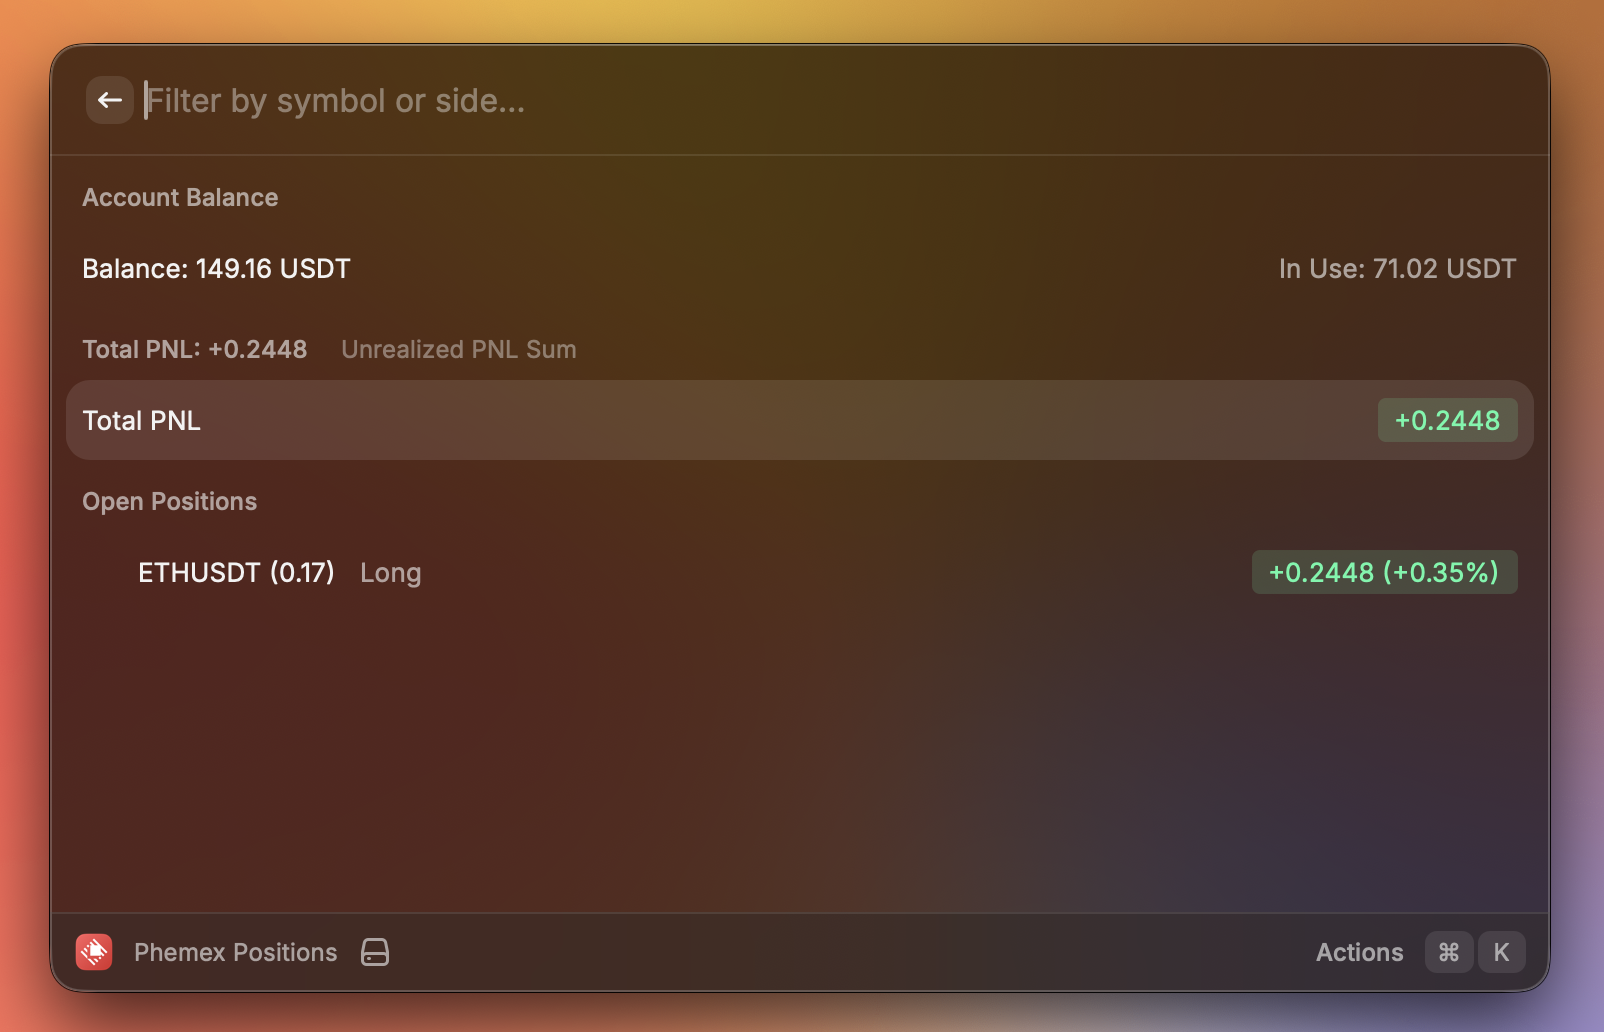
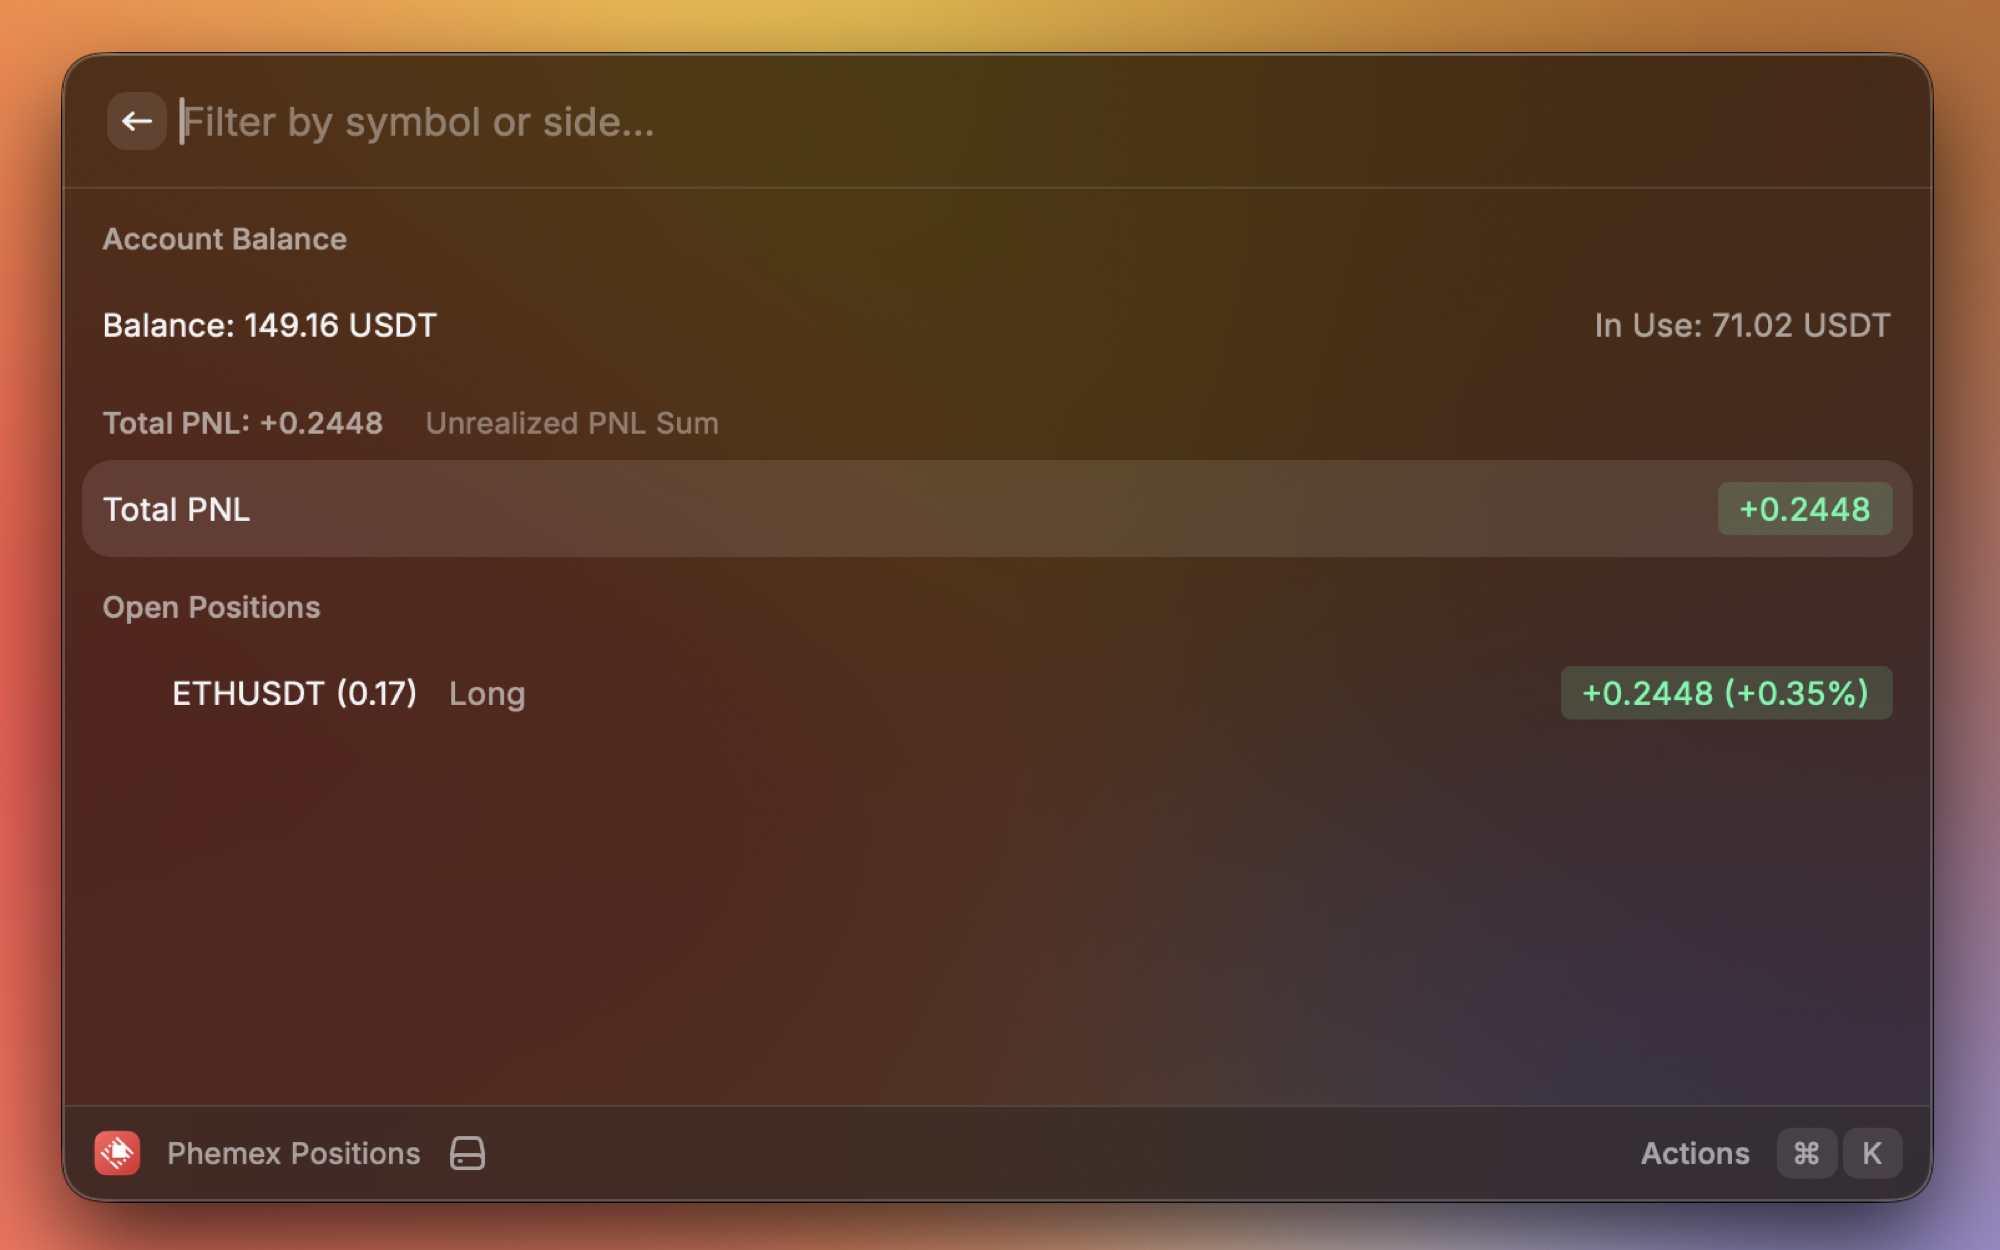
chore: prepare for Raycast Store publication
- Update package.json with proper description, categories, and platforms
- Fix CHANGELOG.md format with proper date
- Resize screenshots to 2000x1250 PNG format

Changed region(s): [[0.0623, 0.2481, 0.2182, 0.2791], [0.0935, 0.4031, 0.1247, 0.4341]]

diff --git a/CHANGELOG.md b/CHANGELOG.md
@@ -1,3 +1,8 @@
 # Phemex Futures Positions Changelog
 
-## [Initial Version] - {PR_MERGE_DATE}
+## [Initial Version] - 2025-03-05
+
+- View all open futures positions with real-time PNL
+- Account balance overview
+- Detailed position view with entry price, mark price, leverage
+- Quick access to Phemex trading interface
